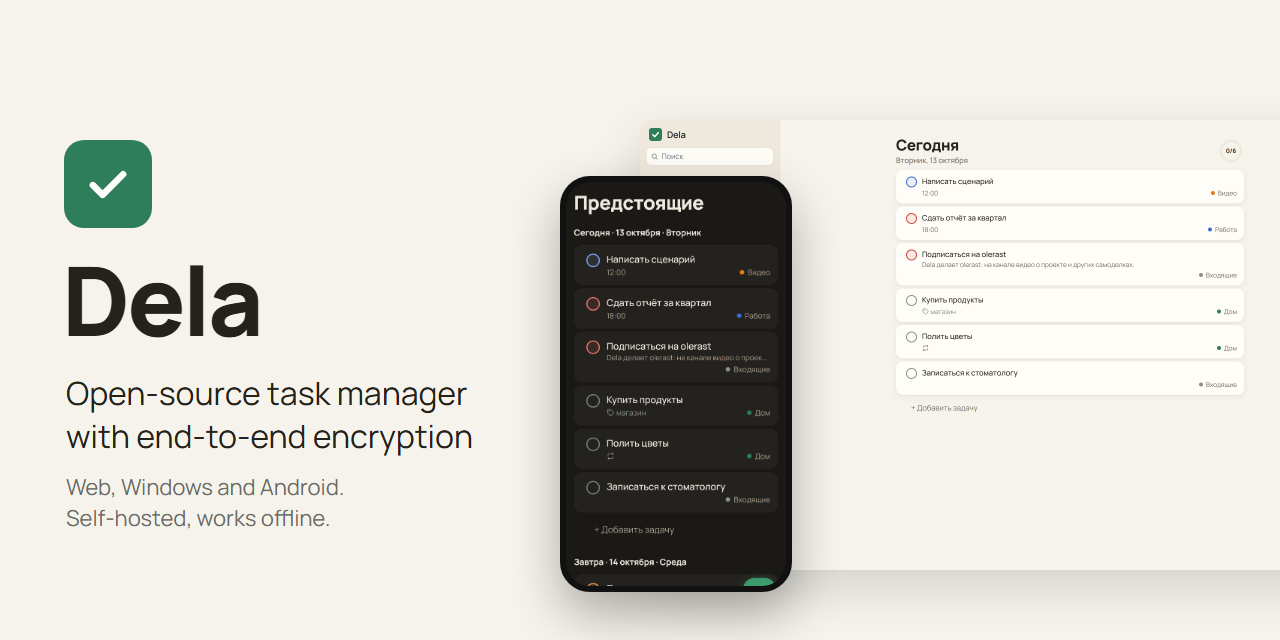
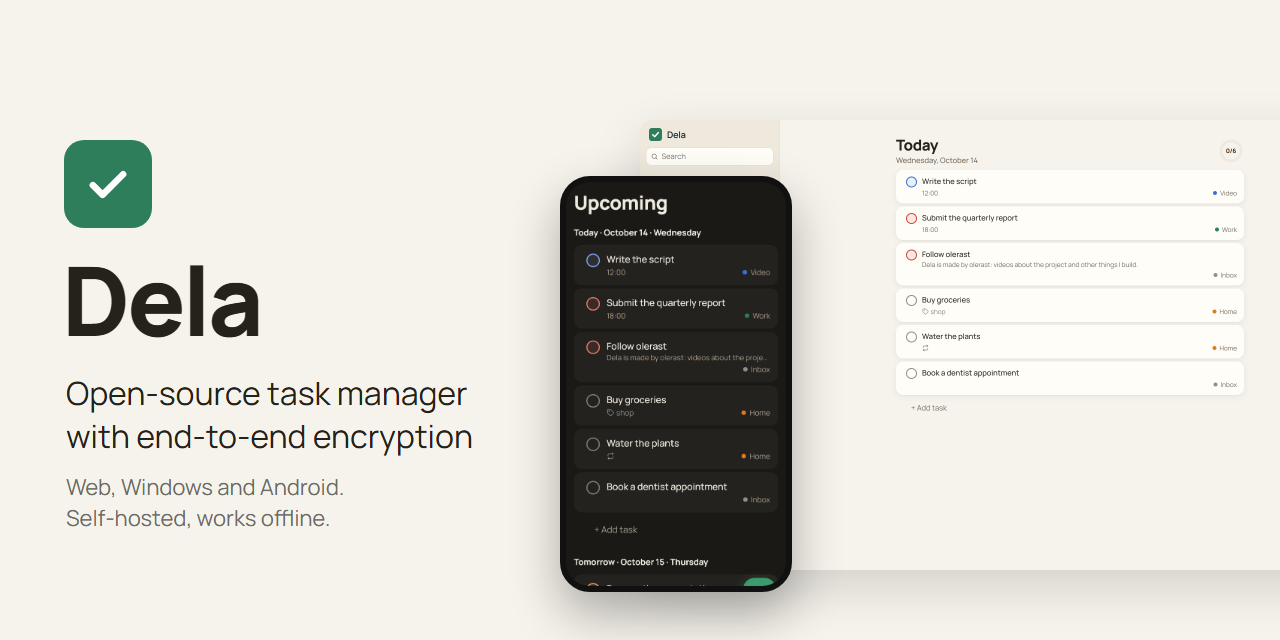
0.5.0: English interface, English screenshots, one-command server install

diff --git a/site/index.html b/site/index.html
@@ -11,7 +11,7 @@
   <link rel="stylesheet" href="style.css">
   <meta property="og:title" content="Dela: task manager with end-to-end encryption">
   <meta property="og:description" content="Open source, self-hosted, works offline. Web, Windows and Android.">
-  <meta property="og:image" content="https://olerast67.github.io/dela/images/banner.png">
+  <meta property="og:image" content="https://olerast67.github.io/dela/images/banner-en.png">
   <meta property="og:url" content="https://olerast67.github.io/dela/">
   <meta name="twitter:card" content="summary_large_image">
 </head>
@@ -37,15 +37,15 @@
         <a class="btn" href="https://github.com/olerast67/dela">Source on GitHub</a>
       </div>
       <picture>
-        <source media="(max-width: 760px)" srcset="images/phone-today.png" width="1170" height="2532">
-        <img class="shot" src="images/screens.png" width="1600" height="1594" alt="Dela: Today and the week calendar on a computer, Today and Upcoming on a phone">
+        <source media="(max-width: 760px)" srcset="images/phone-today-en.png" width="1170" height="2532">
+        <img class="shot" src="images/screens-en.png" width="1600" height="1554" alt="Dela: Today and the week calendar on a computer, Today and Upcoming on a phone">
       </picture>
     </div>
 
     <section id="features" class="wrap">
       <h2>What it does</h2>
       <ul class="features">
-        <li><h3>Quick add in plain language</h3><p>“call mom tomorrow at 7pm #Home every week p1” in English or Russian. The date, time, recurrence, project and priority are highlighted while you type.</p></li>
+        <li><h3>Quick add in plain language</h3><p>“call mom tomorrow at 7pm #Home every week p1” in English or Russian. The date, time, recurrence, project and priority are highlighted while you type. The interface is in English and Russian.</p></li>
         <li><h3>Today, Upcoming and a calendar</h3><p>Day, week and month. Drag a task to another day or into the hour grid, drag its bottom edge to change the duration.</p></li>
         <li><h3>Recurrence and filters</h3><p>“every 2nd tuesday of the month”, “every 3&nbsp;days after completion”. Filters in Todoist syntax, import from Todoist.</p></li>
         <li><h3>Shared projects</h3><p>Members invited by email, assignees, comments with files. Files are encrypted on the device; a removed member cannot read later changes.</p></li>

diff --git a/site/ru.html b/site/ru.html
@@ -45,7 +45,7 @@
     <section id="features" class="wrap">
       <h2>Что умеет</h2>
       <ul class="features">
-        <li><h3>Задача обычной фразой</h3><p>«позвонить маме завтра в&nbsp;19 №Дом каждую неделю! 1». Дата, время, повтор, проект и&nbsp;приоритет подсвечиваются прямо при&nbsp;вводе.</p></li>
+        <li><h3>Задача обычной фразой</h3><p>«позвонить маме завтра в&nbsp;19 №Дом каждую неделю !1». Дата, время, повтор, проект и&nbsp;приоритет подсвечиваются прямо при&nbsp;вводе. Интерфейс на&nbsp;русском и&nbsp;английском.</p></li>
         <li><h3>Сегодня, Предстоящие и&nbsp;календарь</h3><p>День, неделя и&nbsp;месяц. Задачу можно перетащить на&nbsp;другой день или&nbsp;в&nbsp;сетку часов и&nbsp;растянуть за&nbsp;нижний край, чтобы поменять длительность.</p></li>
         <li><h3>Повторы и&nbsp;фильтры</h3><p>«каждый <span class="nw">2-й</span> вторник месяца», «каждые 3&nbsp;дня после выполнения». Фильтры в&nbsp;синтаксисе Todoist, перенос задач из&nbsp;Todoist.</p></li>
         <li><h3>Общие проекты</h3><p>Участники по&nbsp;приглашению на&nbsp;почту, исполнители, комментарии с&nbsp;файлами. Файлы шифруются на&nbsp;устройстве, а&nbsp;убранный из&nbsp;проекта участник не&nbsp;прочитает новых изменений.</p></li>

diff --git a/docs/images/banner-en.html b/docs/images/banner-en.html
@@ -1,0 +1,18 @@
+<!doctype html><html><head><meta charset="utf-8"><link href="https://fonts.googleapis.com/css2?family=Manrope:wght@400;600;800&display=swap" rel="stylesheet"><style>
+html,body{margin:0;width:1280px;height:640px;overflow:hidden;background:#F6F3EC;font-family:Manrope,"Segoe UI",system-ui,sans-serif;color:#25221C}
+.icon{position:absolute;left:64px;top:140px;width:88px;height:88px;border-radius:20px;background:#2E7D5B;display:flex;align-items:center;justify-content:center}
+h1{position:absolute;left:62px;top:252px;margin:0;font-size:96px;font-weight:800;letter-spacing:-3px;line-height:1}
+.lead{position:absolute;left:66px;top:372px;font-size:32px;line-height:43px}
+.sub{position:absolute;left:66px;top:472px;font-size:22px;line-height:31px;color:#6B6C66}
+.desk{position:absolute;left:640px;top:120px;width:720px;height:450px;border-radius:12px 0 0 12px;overflow:hidden;box-shadow:0 18px 50px rgba(0,0,0,.14)}
+.desk img{width:720px;display:block}
+.phone{position:absolute;left:560px;top:176px;width:220px;height:404px;border-radius:30px;overflow:hidden;border:6px solid #111;background:#111;box-shadow:0 22px 50px rgba(0,0,0,.30)}
+.phone img{width:220px;display:block}
+</style></head><body>
+<div class="icon"><svg width="52" height="52" viewBox="0 0 24 24" fill="none" stroke="#fff" stroke-width="3" stroke-linecap="round" stroke-linejoin="round"><path d="M5 12.5l4.5 4.5L19 7.5"/></svg></div>
+<h1>Dela</h1>
+<div class="lead">Open-source task manager<br>with end-to-end encryption</div>
+<div class="sub">Web, Windows and Android.<br>Self-hosted, works offline.</div>
+<div class="desk"><img src="today-light-en.png"></div>
+<div class="phone"><img src="phone-upcoming-dark-en.png"></div>
+</body></html>

diff --git a/docs/images/screens-en.html b/docs/images/screens-en.html
@@ -1,0 +1,17 @@
+<!doctype html>
+<meta charset="utf-8">
+<!-- Сборка screens-en.png: компьютер и телефон, светлая и тёмная тема. Снимок 1600 px шириной. -->
+<style>
+html,body{margin:0;background:#fff}
+.grid{display:grid;grid-template-columns:1fr auto;gap:24px;padding:24px;width:1552px}
+.desk,.phone{border-radius:14px;overflow:hidden;box-shadow:0 10px 30px rgba(0,0,0,.12);line-height:0}
+.desk img{width:100%;display:block}
+.phone{height:741px}
+.phone img{height:741px;display:block}
+</style>
+<div class="grid">
+  <div class="desk"><img src="today-light-en.png"></div>
+  <div class="phone"><img src="phone-today-en.png"></div>
+  <div class="desk"><img src="calendar-week-en.png"></div>
+  <div class="phone"><img src="phone-upcoming-dark-en.png"></div>
+</div>

diff --git a/apps/web/src/styles.css b/apps/web/src/styles.css
@@ -1266,8 +1266,14 @@ input.inline {
   min-width: 140px;
 }
 
+/* Поле времени не сжимается: в 12-часовом формате «06:00 PM» иначе обрезается. Если места мало, оно переносится строкой ниже. */
+.fields dd.row {
+  flex-wrap: wrap;
+}
+
 .fields dd.row input[type='time'] {
-  flex: 0 1 110px;
+  flex: 0 0 auto;
+  min-width: 118px;
 }
 
 @media (max-width: 1200px) and (min-width: 761px) {

diff --git a/apps/server/src/app.ts b/apps/server/src/app.ts
@@ -25,7 +25,7 @@ import { generateVapid, isAllowedEndpoint, loadVapid, sendPush } from './webpush
 import { newTotpSecret, otpauthUri, verifyTotp } from './totp.ts';
 import { EMAIL_RE, UUID_RE, b64, bad, int, obj, optStr, str } from './validate.ts';
 
-export const VERSION = '0.4.2';
+export const VERSION = '0.5.0';
 
 interface Auth {
   readonly userId: string;

diff --git a/README.md b/README.md
@@ -1,5 +1,5 @@
 <p align="center">
-  <img src="docs/images/banner.png" alt="Dela, an open-source task manager with end-to-end encryption" width="100%">
+  <img src="docs/images/banner-en.png" alt="Dela, an open-source task manager with end-to-end encryption" width="100%">
 </p>
 
 <h1 align="center">Dela: task manager with end-to-end encryption</h1>
@@ -34,13 +34,13 @@ I built Dela as a self-hosted alternative to Todoist: quick add in plain languag
 ## Screenshots
 
 <p align="center">
-  <img src="docs/images/screens.png" alt="Today, Upcoming in dark theme, task details and the phone layout" width="100%">
+  <img src="docs/images/screens-en.png" alt="Today, Upcoming in dark theme, task details and the phone layout" width="100%">
 </p>
 
 Quick add recognizes the date, time, recurrence, project and priority while you type:
 
 <p align="center">
-  <img src="docs/images/quick-add.png" alt="Quick add with recognized parts highlighted" width="80%">
+  <img src="docs/images/quick-add-en.png" alt="Quick add with recognized parts highlighted" width="80%">
 </p>
 
 ## Features
@@ -121,7 +121,7 @@ The first account can be registered only with the address from `DELA_ADMIN_EMAIL
 docker compose pull && docker compose --profile https up -d
 ```
 
-The `latest` image is the latest release; a specific version is available as `ghcr.io/olerast67/dela:0.4.2`. Migrations run at startup, and the server copies the database to `/data/dela.sqlite.before-vN-<time>.bak` first. Once a day it writes a snapshot to `/data/backups`. A plaintext export is available in the app under Settings → Export.
+The `latest` image is the latest release; a specific version is available by its number, for example `ghcr.io/olerast67/dela:0.5.0`. Migrations run at startup, and the server copies the database to `/data/dela.sqlite.before-vN-<time>.bak` first. Once a day it writes a snapshot to `/data/backups`. A plaintext export is available in the app under Settings → Export.
 
 ## Security
 

diff --git a/README.ru.md b/README.ru.md
@@ -121,7 +121,7 @@ tasks.example.com {
 docker compose pull && docker compose --profile https up -d
 ```
 
-Образ `latest` это последний выпуск, конкретная версия доступна как `ghcr.io/olerast67/dela:0.4.2`. Миграции идут при запуске, перед ними сервер копирует базу в `/data/dela.sqlite.before-vN-<время>.bak`. Раз в сутки он пишет снимок в `/data/backups`. Открытая выгрузка есть в приложении: «Настройки → Экспорт».
+Образ `latest` это последний выпуск, конкретная версия доступна по номеру, например `ghcr.io/olerast67/dela:0.5.0`. Миграции идут при запуске, перед ними сервер копирует базу в `/data/dela.sqlite.before-vN-<время>.bak`. Раз в сутки он пишет снимок в `/data/backups`. Открытая выгрузка есть в приложении: «Настройки → Экспорт».
 
 ## Безопасность
 

diff --git a/ROADMAP.md b/ROADMAP.md
@@ -57,6 +57,7 @@
 - [ ] 2.14 iOS и iPadOS
 - [x] 2.15 Push на Android без сервисов Google через UnifiedPush (ntfy); FCM и APNs перенесены в 4.1
 - [x] 2.16 Сайт olerast67.github.io/dela, демо без сервера, описание для F-Droid (заявку в F-Droid подаёт автор; Google Play вместе с облаком), проверка CLA в pull request
+- [x] 2.17 Английский интерфейс (язык системы или выбор в настройках), установка сервера одной командой с HTTPS через встроенный Caddy
 
 ## Фаза 3. Лучше Todoist
 

diff --git a/CHANGELOG.md b/CHANGELOG.md
@@ -1,8 +1,9 @@
 # Changelog
 
-## Unreleased
+## 0.5.0
 
 - English interface. The app follows the system language; Settings → Language switches between English and Russian. New accounts get welcome tasks and built-in templates in the chosen language. The Android widget, notifications and the Windows tray menu are translated too.
+- Task card: the time field is no longer cut off in the 12-hour format.
 - Server install in one command: settings in `.env`, `--profile https` starts a bundled Caddy that gets the certificate itself. The `latest` image is the latest release, `edge` follows the main branch.
 
 ## 0.4.2
